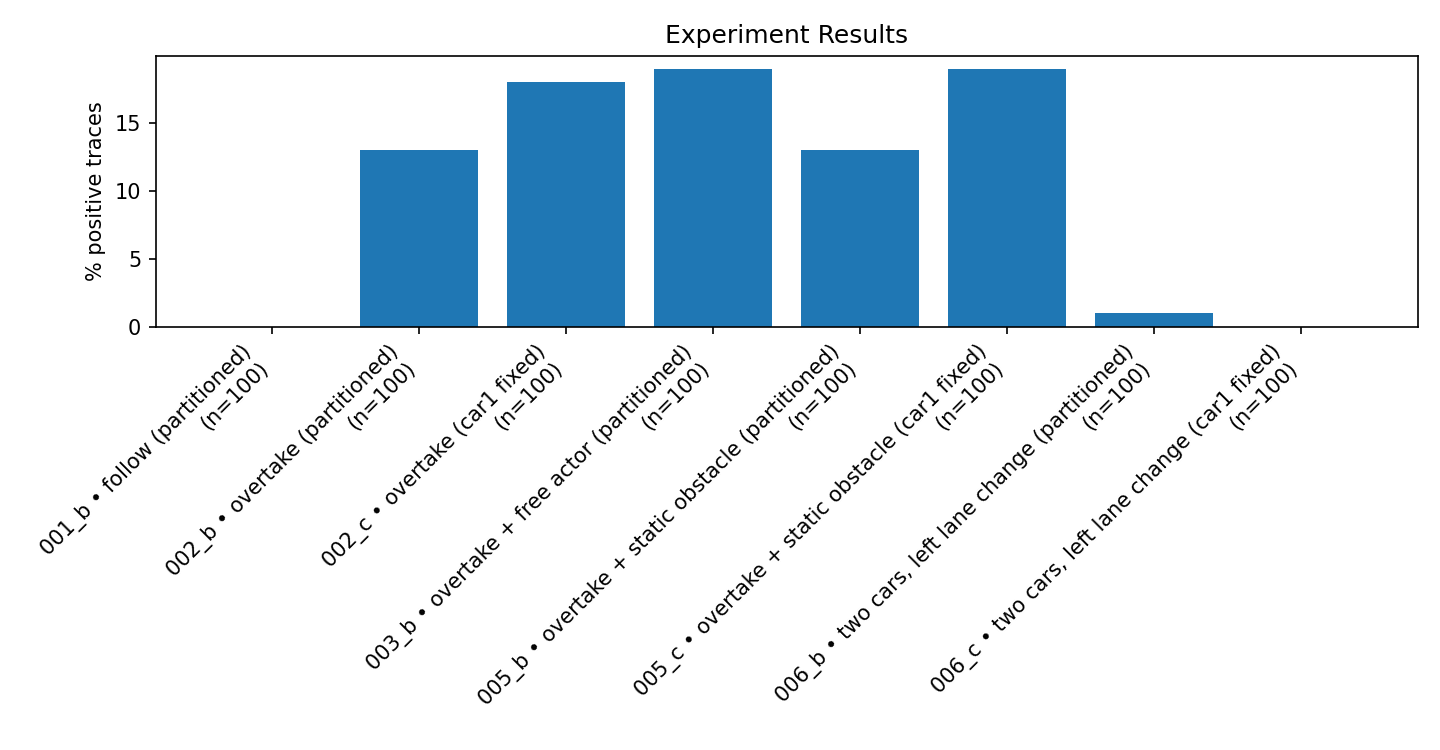
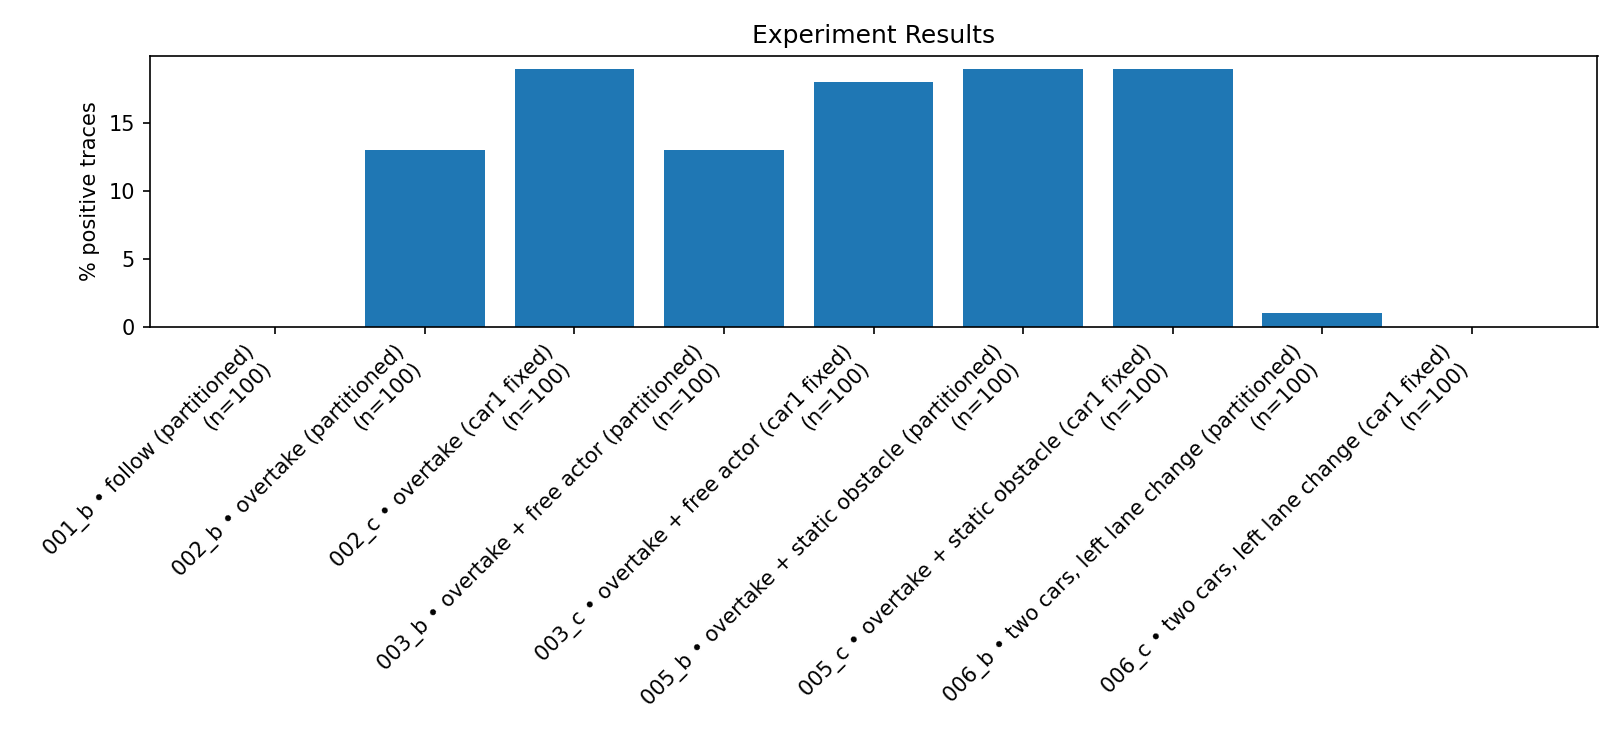
fixed a mistake in exp 1. improved visualization of success rates by adding timing diagram

diff --git a/experiments_src/vis_success_rates.py b/experiments_src/vis_success_rates.py
@@ -3,7 +3,10 @@ import os, json, glob
 import click
 import matplotlib.pyplot as plt
 import re
-
+import itertools
+import pandas as pd
+from collections import defaultdict
+import numpy as np
 
 
 names_default= {
@@ -20,8 +23,6 @@ names_default= {
   "exp_003_c": "overtake + free actor (car1 fixed)",
   
   "exp_004": "overtake + fixed lane",
-  "exp_004_b": "overtake + fixed lane (partitioned)",
-  "exp_004_c": "overtake + fixed lane (car1 fixed)",
   
   "exp_005": "overtake + static obstacle",
   "exp_005_b": "overtake + static obstacle (partitioned)",
@@ -50,16 +51,19 @@ def _load_names(names_arg):
     return json.loads(names_arg)
 
 @click.command()
-@click.option("--pattern", default="experiments_src/logs/*.json", show_default=True, help="Glob of experiment json files.")
 @click.option("--names", default=None, help='Optional mapping (path to JSON or inline JSON, e.g. \'{"exp_001_b":"overtake"}\').')
 @click.option("--out", default="experiments_src/vis/experiments_summary.png", show_default=True, help="Output image filename.")
+@click.option("--pattern", multiple=True, default=["logs/*.json"], show_default=True,
+              help="One or more glob patterns of experiment json files.")
 def main(pattern, names, out):
     # --- load and merge names ---
     name_map = names_default.copy()
     user_map = _load_names(names)
     name_map.update(user_map)
 
-    files = sorted(glob.glob(pattern))
+    # files = sorted(glob.glob(pattern))
+    files = sorted(set(itertools.chain.from_iterable(glob.glob(p) for p in pattern)))
+
     if not files:
         raise SystemExit(f"No files matched pattern: {pattern}")
 
@@ -84,15 +88,105 @@ def main(pattern, names, out):
     if max(percents, default=0) <= 1.0:
         percents = [v * 100 for v in percents]
 
-    xticks = [f"{lab}\n(n={n})" for lab, n in zip(labels, totals)]
-    plt.figure(figsize=(max(6, len(labels)*1.2), 5))
-    plt.bar(range(len(labels)), percents)
-    plt.xticks(range(len(labels)), xticks, rotation=45, ha="right")
-    plt.ylabel("% positive traces")
-    plt.title("Experiment Results")
+
+    # assume imports are at top of your file
+    # insert this as the plotting section at the end of visualize_experiments.py
+
+    # === Combined plots for success rates + timing ===
+    fig, (ax1, ax2) = plt.subplots(
+        2, 1,
+        figsize=(max(6, len(labels) * 1.3), 7.5),  # slightly taller to avoid label overlap
+        sharex=True,
+        gridspec_kw={'height_ratios': [2.5, 1]}
+    )
+
+    # === Top plot: success rates ===
+    x = np.arange(len(labels))
+    ax1.bar(x, percents, color="tab:blue", alpha=0.9)
+    ax1.set_ylabel("% positive traces")
+    ax1.set_title("Experiment Results and Runtime Breakdown")
+    ax1.set_ylim(0, max(percents) * 1.25 if percents else 100)
+    ax1.grid(axis="y", linestyle="--", alpha=0.3)
+
+    # === Bottom plot: timing breakdown ===
+    step_alias = {
+        "create_variability_instances": "partition",
+        "variability_experiments": "plan",
+        "generate-osc-scenarios": "plan",
+        "execute-all-scenarios": "execute",
+        "generate-summary": "monitor",
+    }
+
+    step_durations = defaultdict(dict)
+    for p in files:
+        base = os.path.splitext(os.path.basename(p))[0]
+        exp_dir = os.path.join("experiments_src", base)
+        times_path = os.path.join(exp_dir, "out", "times.jsonl")
+        if not os.path.exists(times_path):
+            continue
+        with open(times_path, "r", encoding="utf-8") as tf:
+            for line in tf:
+                try:
+                    entry = json.loads(line)
+                    step = step_alias.get(entry.get("step"), entry.get("step", "unknown"))
+                    step_durations[base][step] = step_durations[base].get(step, 0) + entry.get("seconds", 0)
+                except json.JSONDecodeError:
+                    continue
+
+    if step_durations:
+        df = pd.DataFrame(step_durations).fillna(0).T
+        df = df[[c for c in ["partition", "plan", "execute", "monitor"] if c in df.columns]]
+
+        colors = {
+            "partition": "#A8D5BA",  # calm pastel green
+            "plan": "#F7B7A3",       # soft red/orange
+            "execute": "#A7C7E7",    # pastel blue
+            "monitor": "#FDDFA9",    # light orange/yellow
+        }
+
+        bottom = np.zeros(len(df))
+        for step in df.columns:
+            ax2.bar(df.index, df[step], bottom=bottom, color=colors.get(step, "gray"), label=step)
+            bottom += df[step].values
+
+        total_times = df.sum(axis=1).astype(int)
+        max_total = max(total_times) if len(total_times) else 0
+        ax2.set_ylim(0, max_total * 1.15)  # taller frame for labels
+
+        for i, t in enumerate(total_times):
+            hrs, rem = divmod(t, 3600)
+            mins, secs = divmod(rem, 60)
+            label_time = (
+                f"{hrs}h{mins:02d}m" if hrs else
+                f"{mins}m{secs:02d}s" if mins else
+                f"{secs}s"
+            )
+            ax2.text(i, t + max_total * 0.02, label_time,
+                    ha="center", va="bottom", fontsize=8, color="#333")
+
+
+        ax2.set_ylabel("Time (s)")
+        ax2.grid(axis="y", linestyle="--", alpha=0.3)
+        ax2.legend(
+            frameon=True,
+            loc="center right",
+            title="Runtime phases",
+            fontsize=8,
+            title_fontsize=9,
+        )
+    else:
+        ax2.text(0.5, 0.5, "No timing data found", ha="center", va="center")
+
+    # === Shared x-axis labels only at bottom ===
+    ax2.set_xticks(x)
+    ax2.set_xticklabels(
+        [name_map.get(os.path.splitext(os.path.basename(p))[0], os.path.splitext(os.path.basename(p))[0]) for p in files],
+        rotation=45, ha="right"
+    )
+
     plt.tight_layout()
-    plt.savefig(out, dpi=150)
-    print(f"Wrote {out}")
+    plt.savefig(out.replace(".png", "_combined.png"), dpi=150, bbox_inches="tight")
+    print(f"Wrote {out.replace('.png', '_combined.png')}")
 
 if __name__ == "__main__":
     main()
